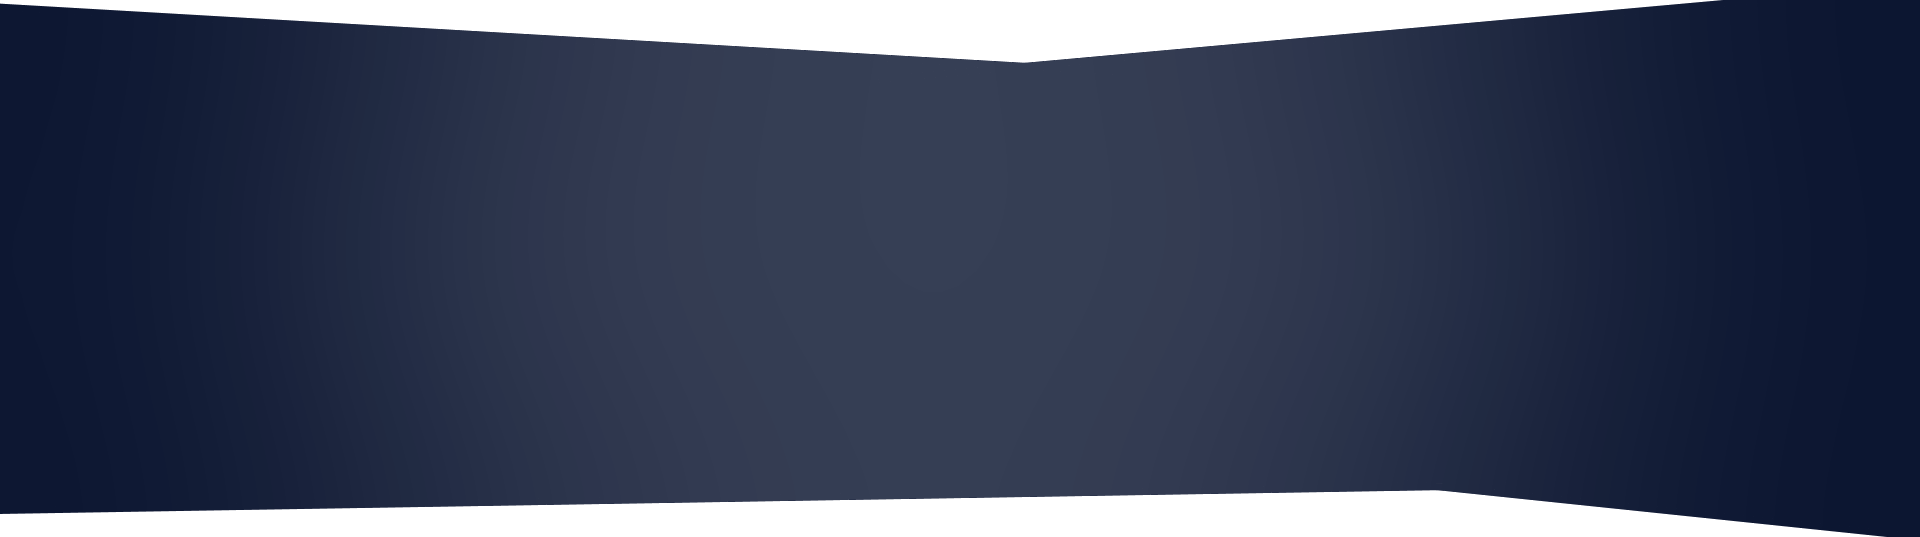
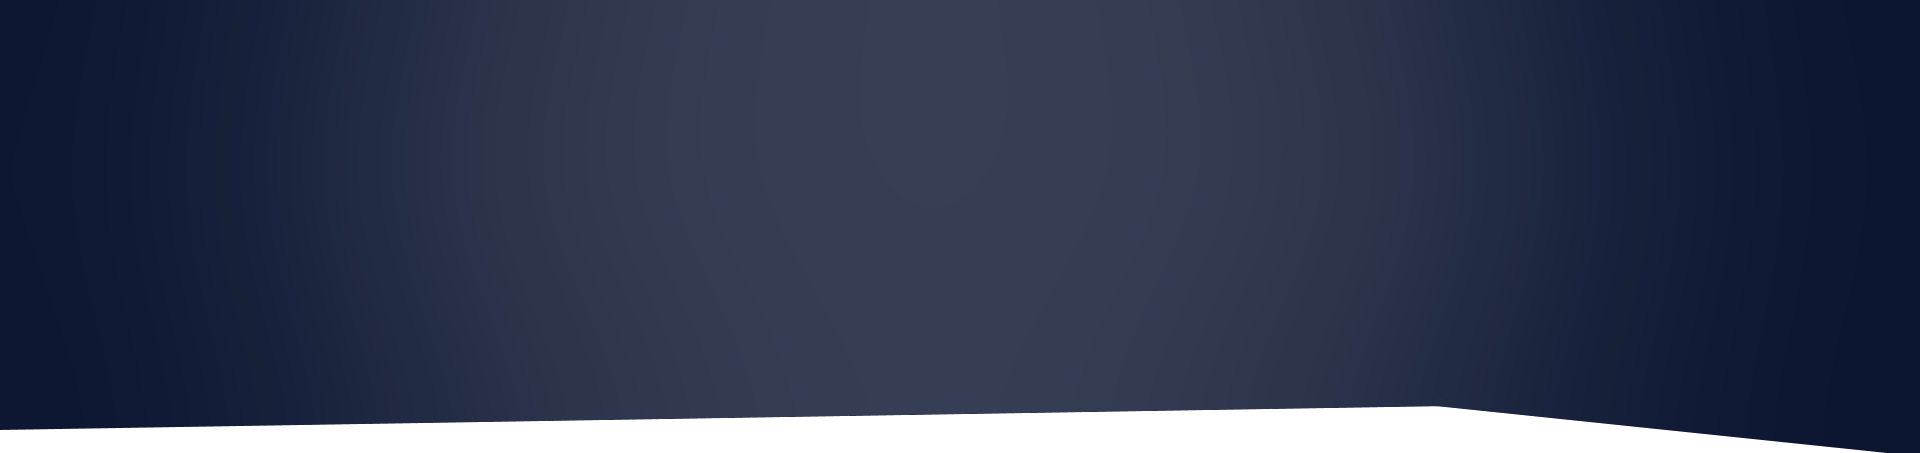
styling fixes made

diff --git a/src/Dashboard/DashboardPage.css b/src/Dashboard/DashboardPage.css
@@ -27,8 +27,7 @@ html {
   background-position: center;
   justify-content: center;
   width: auto;
-  height: 60vh;
-  padding-top: 1vh;
+  height: 45vh;
   animation: dash_fadeIn 1s;
   margin-bottom: 2%;
 }
@@ -142,12 +141,18 @@ html {
 }
 
 .dash_miniLeaderboard {
+  background-color: #D3D3D3;
+  border-radius: 15px;
+  padding-left: 30px;
+  padding-right: 30px;
+  padding-bottom: 30px;
   text-align: center;
   margin-left: auto;
   margin-right: auto;
   margin-top: -100px;
+  margin-bottom: 30px;
   width: 80%;
-  height: 300px;
+  height: 400px;
 }
 
 .dash_welcomeMessageP1 {

diff --git a/src/Dashboard/DashLeaderboardProfiles.css b/src/Dashboard/DashLeaderboardProfiles.css
@@ -30,14 +30,14 @@
 }
 
 .profileImageDash {    
-    height: 70%;
+    height: 45px;
     margin-top: 12%;
     margin-left: -8%;
 }
 
 @media screen and (min-width: 1000px) {
     .profileImageDash {    
-        height: 70%;
+        height: 45px;
         margin-top: 3%;
     }
 }

diff --git a/src/Quiz/QuizPage.css b/src/Quiz/QuizPage.css
@@ -94,16 +94,16 @@
 }
 
 .totalCorrectQuestions {
-    color: white;
+    color: black;
     font-family: Lato,sans-serif;
 }
 
 .totalCorrectPoints {
-    color: white;
+    color: black;
 }
 
 .correctPercentage {
-    color: white;
+    color: black;
 }
 
 .quizHomeBttn {

diff --git a/src/LearningModule/LearningModule.js b/src/LearningModule/LearningModule.js
@@ -69,4 +69,4 @@ const  LearningModule = () => {
         </>
     );
 }
-export default  LearningModule;
+export default LearningModule;
